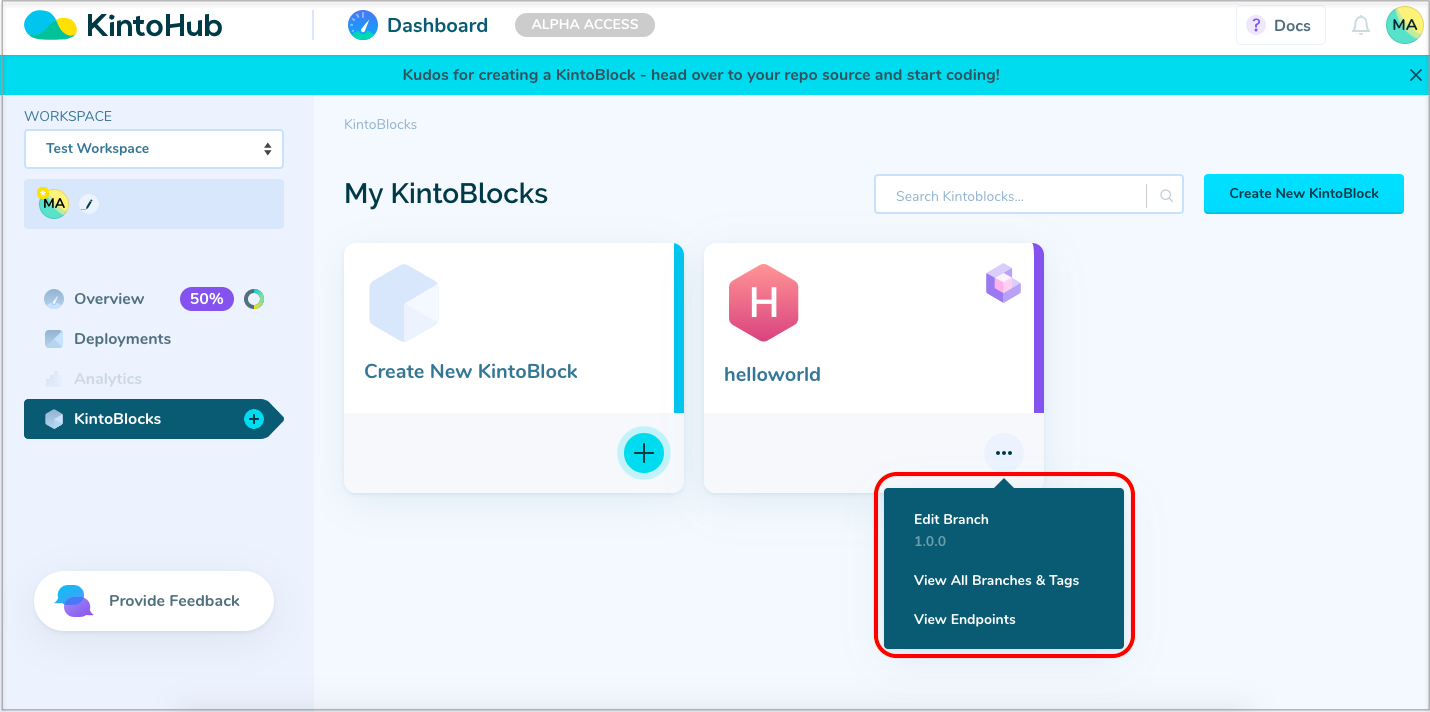
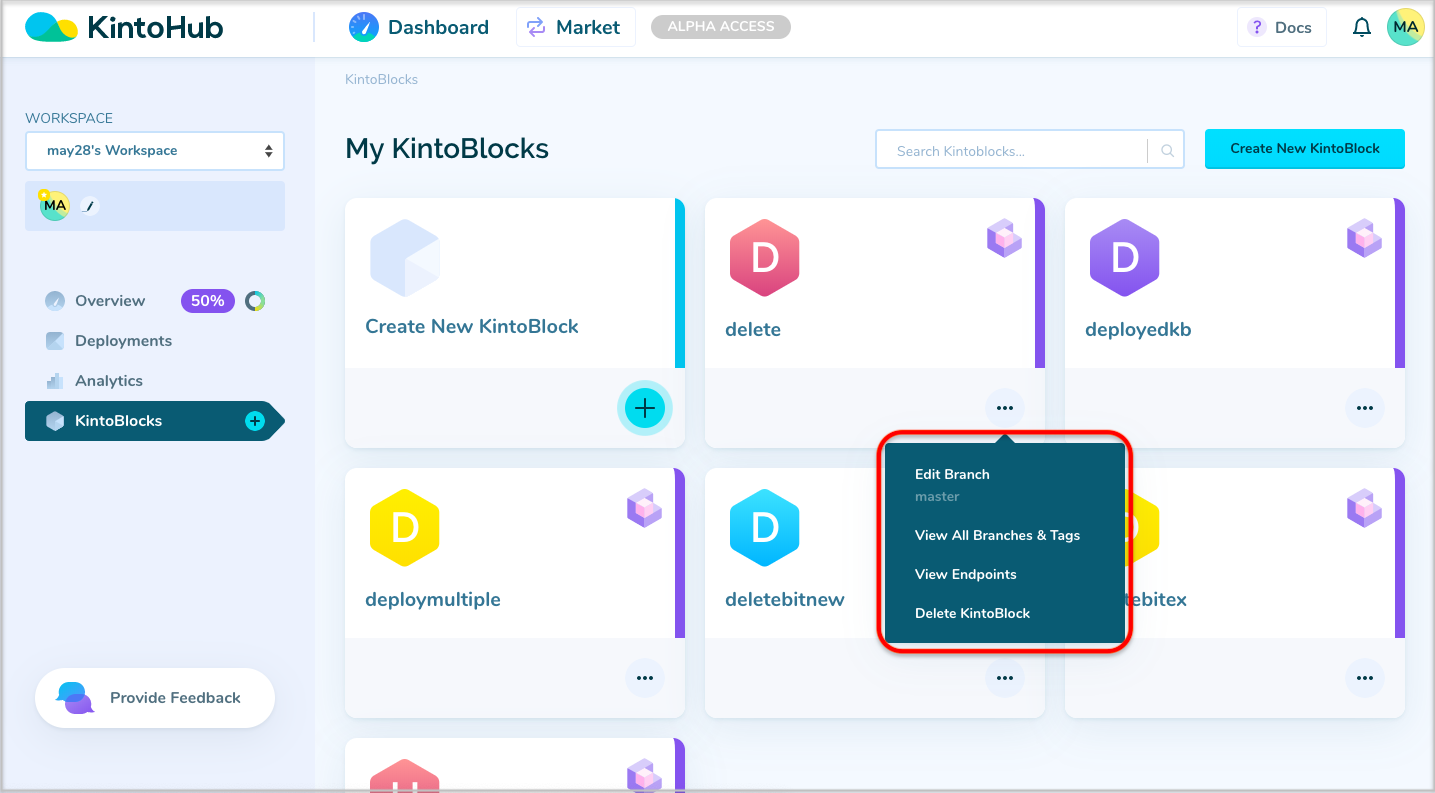
Doc update release 0.4.0 (#119)
* Added content for "Helm Arguments"

* Added content for "Delete KintoBlock"

* Updated content for Logs button

* Delete kb-ellipsis-icon.png

* Added images for updated content

* Updated Sidebar for new features

* Added Image for Helm Argument

* Update advanced-usages.md

diff --git a/docs/helm-arguments.md b/docs/helm-arguments.md
@@ -1,0 +1,53 @@
+---
+title: Helm Arguments
+---
+
+## What are Helm Arguments?
+
+**Helm Arguments** are used to reconfigure the default configurations in **Helm Charts**. They are similar to environment variables. Each **branch** of a Custom Service KintoBlock will have their own Helm Arguments. It is also posisble to add multiple Helm Arguments to a Custom Service KintoBlock.
+
+The Helm Arguments value can be added on the **KintoBlock Manage** page or via **Configure Dependencies** button in Deployment Manage Page. It is recommended to assign a `Value` for each Helm Argument that is added to the Custom Service KintoBlock. 
+
+
+## How to define Helm Arguments in a Custom Service KintoBlock?
+
+The Helm Arguments can be added to a Custom Service KintoBlock via the **KintoBlock Manage** page by following the steps mentioned below:
+
+1. Open a **Custom Service** KintoBlock.
+
+2. Select the required branch in your KintoBlock.
+
+3. Scroll down to the **Helm Arguments** section at the bottom of the form.
+
+    ![Screenshot](/docs/assets/helm-arguments.png)
+
+4. Add the **Helm Argument** and set the default value. 
+
+    >Note: Users can override the default value whenever it needs to be updated.
+
+5. Click on the **+** button.
+
+6. By default, each Helm Argument added will be regarded as an optional variable. If you would like to mandate the use of any specific Helm Argument, enable the **This is a required value** option.
+ 
+
+## Manage Helm Arguments
+
+It is possible to edit and delete a Helm Argument in Custom Service KintoBlock at any required point. The edit and delete operations are done in the **KintoBlocks Manage** page:
+
+1. Open a **Custom Service** KintoBlock.
+
+2. Select the required branch in your KintoBlock.
+
+3. Scroll down to the **Helm Arguments** section at the bottom of the form.
+
+4. To edit, overwrite the existing `Argument` and `Value` with the updated values.
+
+5. To delete, click on the **X** icon displayed beside the Helm Argument.
+
+6. Click on the **Save Changes** button to apply the changes.
+
+
+### Points to remember
+
+- The owner of a KintoBlock can add, edit or delete Helm arguments and values.
+- Public users with access to a KintoBlock can edit the Helm Arguments values via **Configure Dependencies** button in Deployment Manage page.

diff --git a/docs/manage-blocks.md b/docs/manage-blocks.md
@@ -4,7 +4,7 @@ title: Manage KintoBlocks
 
 ## Editing KintoBlocks
 
-The KintoBlock properties like `Description`, `Port`, `Build command`, `Run` and `Doc format` specified during creation can be edited and modified with new values.
+The KintoBlock properties like `Description`, `Port`, `Build command`, `Run` and `Doc format` specified during the creation can be edited and modified with new values.
 
 To edit a KintoBlock follow the steps mentioned below:
 
@@ -48,10 +48,33 @@ To view endpoint documentation:
 
 1. Open any KintoBlock.
 
-2. Click the **View Endpoints** button on top right of the **KintoBlock Manage** page.
+2. Click the **View Endpoints** button on the top right of the **KintoBlock Manage** page.
 
 3. The **Endpoints Documentation** page consists of two sections:
 
    a. **Search Endpoints section** - The left pane contains a Search field to query and find relevant endpoint information.
        
    b. **Details section** - The details of the queried endpoints (E.g. URL parameters, Response code, and Response parameters) are displayed in the right pane.
+
+
+## Delete KintoBlock
+
+To delete a KintoBlock, follow the steps mentioned below:
+
+1. Click on **KintoBlocks** displayed on the left navigation bar.
+
+2. You will be redirected to **KintoBlocks List** page.
+
+3. Click on the **Ellipsis icon** of KintoBlock you wish to delete.
+
+4. Click on **Delete KintoBlock** option.
+
+    ![Screenshot](/docs/assets/Delete_KB.png)
+
+5. Type **DELETE** in the displayed field.
+
+6. Click on the **Delete KintoBlock** button to confirm your decision.
+
+Before deleting a KintoBlock, ensure that the KintoBlock is not currently deployed in any of the **Deployments**.
+
+>Note: **Public** KintoBlocks will not be available for deletion.

diff --git a/docs/deployment-logs.md b/docs/deployment-logs.md
@@ -1,7 +1,6 @@
 ---
-title: View Logs
+title: Logs
 ---
-
 
 The log files maintain a record of errors, informational events, and warnings that have occurred during the deployment process. Log files maintain track for each individual KintoBlock that is part of a deployment. 
 
@@ -9,9 +8,9 @@ To view the logs, follow the steps mentioned below:
 
 1. Open a **Deployment**.
 
-2. Click on **Expand Deployment History** displayed in the **Status & History** section.
+2. Click on the **Logs** button displayed on top right of the **Deployment Manage** page.
 
-3. Click on **View Logs** button displayed for a deployment made.
+   ![Screenshot](/docs/assets/Logs_btn_on_top.png)
 
 4. Get redirected to the **Logs** page to view the logs.
 

diff --git a/docs/advanced-usages.md b/docs/advanced-usages.md
@@ -20,6 +20,8 @@ The Quick Menu provides swift access to critical functions that can be performed
    b. View All Branches & Tags
    
    c. View Endpoints
+
+   d. Delete KintoBlock
    
 ![Screenshot](/docs/assets/kb-ellipsis-icon.png)
    
@@ -28,3 +30,5 @@ The Quick Menu provides swift access to critical functions that can be performed
 3. Click on the **View All Branches & Tags option** to open a drop-down displaying all the branches and tags of the KintoBlock.
 
 4. The **View Endpoints option** will redirect the user Endpoint documentation page of the KintoBlock.
+
+5. **Delete KintoBlock** provides you an option to delete the KintoBlock.
